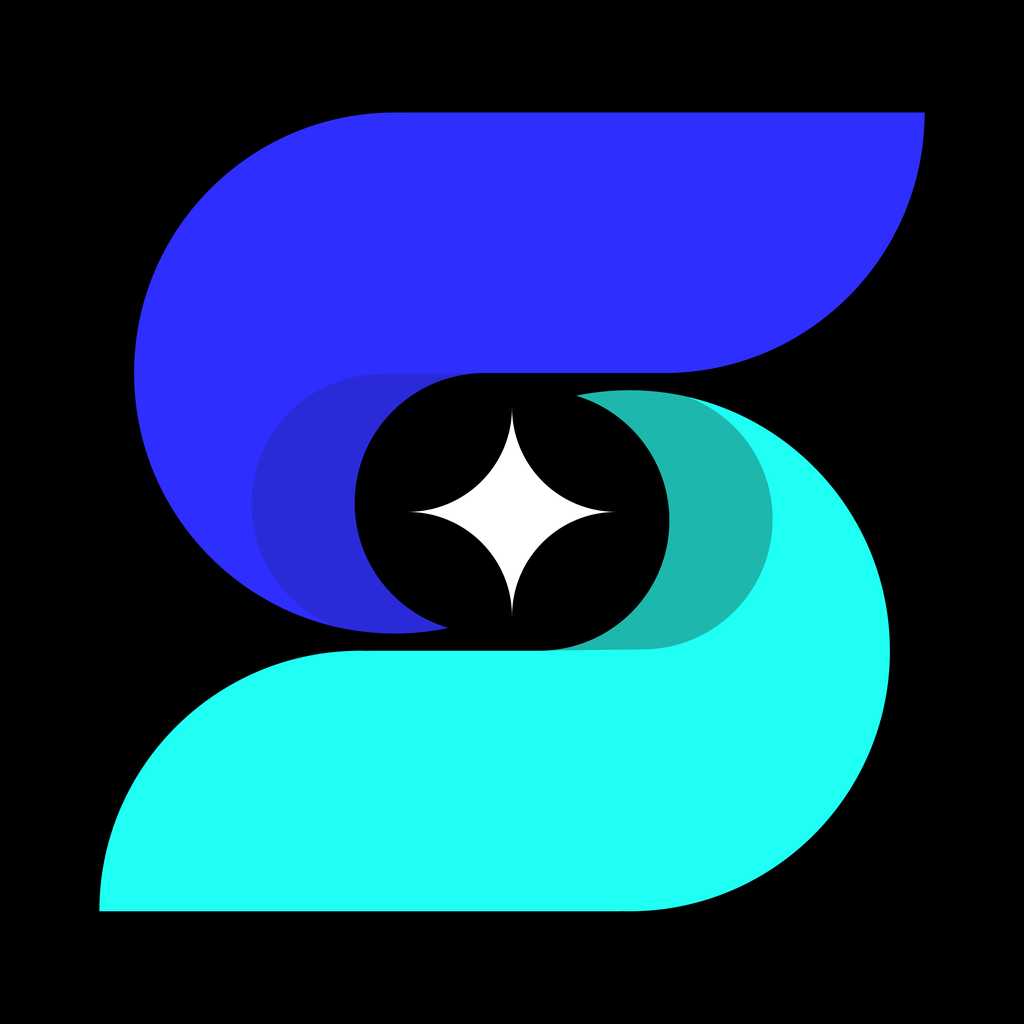
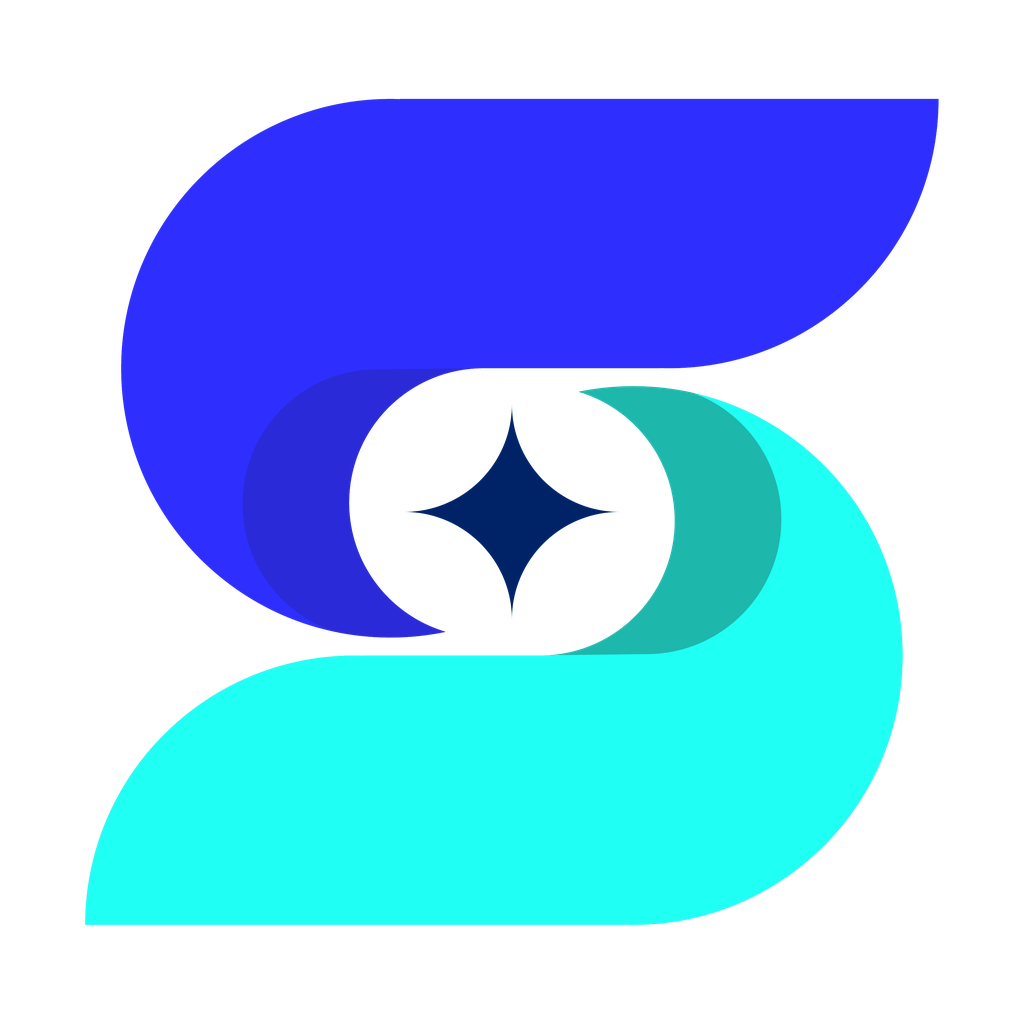
release: 0.2.11 (build 32)

diff --git a/Apps/Mac/Sources/App/SmartBalanceApp.swift b/Apps/Mac/Sources/App/SmartBalanceApp.swift
@@ -12,13 +12,13 @@ struct SmartBalanceApp: App {
                     PinnedBalanceWindowController.shared.bind(model: model)
                 }
         } label: {
-            // 仅图标，不占状态栏宽度
+            // 彩色浅色无背景 Logo（不用 template，避免被系统压成单色）
             Image("MenuBarIcon")
-                .renderingMode(.template)
+                .renderingMode(.original)
                 .resizable()
                 .interpolation(.high)
                 .aspectRatio(contentMode: .fit)
-                .frame(width: 16, height: 16)
+                .frame(width: 18, height: 18)
                 .help(menuBarHelp)
         }
         .menuBarExtraStyle(.window)

diff --git a/Apps/Mac/scripts/apply-branding.py b/Apps/Mac/scripts/apply-branding.py
@@ -1,5 +1,11 @@
 #!/usr/bin/env python3
-"""从 Branding/ 源文件生成 AppIcon / AppLogo / MenuBarIcon。"""
+"""从 Branding/ 源文件生成 AppIcon / AppLogo / MenuBarIcon。
+
+产品要求：
+- 安装包 / Dock / AppIcon：浅色无背景彩色 Logo
+- 状态栏：浅色无背景彩色 Logo（非模板、非深色底）
+- 界面 AppLogo：浅色无背景彩色 Logo
+"""
 from pathlib import Path
 from PIL import Image
 import shutil
@@ -10,6 +16,7 @@ APP_BRAND = ROOT / "Apps/Mac/Branding"
 ICONSET = ROOT / "Apps/Mac/Sources/App/Resources/Assets.xcassets/AppIcon.appiconset"
 MENU = ROOT / "Apps/Mac/Sources/App/Resources/Assets.xcassets/MenuBarIcon.imageset"
 APP_LOGO = ROOT / "Apps/Mac/Sources/App/Resources/Assets.xcassets/AppLogo.imageset"
+
 
 def tight_square(im: Image.Image, pad_ratio: float = 0.10) -> Image.Image:
     im = im.convert("RGBA")
@@ -23,25 +30,23 @@ def tight_square(im: Image.Image, pad_ratio: float = 0.10) -> Image.Image:
     out.paste(im, ((out.size[0] - w) // 2, (out.size[1] - h) // 2), im)
     return out
 
-def to_template(im: Image.Image, px: int) -> Image.Image:
-    im = tight_square(im, pad_ratio=0.14).resize((px * 4, px * 4), Image.Resampling.LANCZOS)
-    a = im.split()[3]
-    bw = Image.new("RGBA", im.size, (0, 0, 0, 0))
-    pxd, ad = bw.load(), a.load()
-    for y in range(im.size[1]):
-        for x in range(im.size[0]):
-            if ad[x, y] > 100:
-                pxd[x, y] = (0, 0, 0, 255)
-    return bw.resize((px, px), Image.Resampling.LANCZOS)
 
 def main() -> None:
-    dark_bg = BRAND / "logo-dark-bg.jpg"
     light_clear = BRAND / "logo-light-clear.png"
-    if not dark_bg.exists() or not light_clear.exists():
-        raise SystemExit(f"missing masters under {BRAND}")
+    if not light_clear.exists():
+        # 中文文件名回退
+        alt = BRAND / "智余logo浅色模式无背景.png"
+        if alt.exists():
+            light_clear = alt
+        else:
+            raise SystemExit(f"missing light-clear master under {BRAND}")
 
-    icon = Image.open(dark_bg).convert("RGBA").resize((1024, 1024), Image.Resampling.LANCZOS)
-    icon.save(BRAND / "app-icon-1024.png", "PNG")
+    # 浅色无背景：透明底 + 彩色 Logo
+    master = tight_square(Image.open(light_clear), pad_ratio=0.10)
+    master_1024 = master.resize((1024, 1024), Image.Resampling.LANCZOS)
+
+    # App / Dock / 安装包图标
+    master_1024.save(BRAND / "app-icon-1024.png", "PNG")
     APP_BRAND.mkdir(parents=True, exist_ok=True)
     shutil.copy2(BRAND / "app-icon-1024.png", APP_BRAND / "app-icon-1024.png")
 
@@ -52,17 +57,20 @@ def main() -> None:
         ("mac_256.png", 256), ("mac_256@2x.png", 512),
         ("mac_512.png", 512), ("mac_512@2x.png", 1024),
     ]:
-        icon.resize((px, px), Image.Resampling.LANCZOS).save(ICONSET / name, "PNG")
+        master.resize((px, px), Image.Resampling.LANCZOS).save(ICONSET / name, "PNG")
 
-    logo = tight_square(Image.open(light_clear), 0.08)
+    # 界面 AppLogo
     APP_LOGO.mkdir(parents=True, exist_ok=True)
     for name, px in [("logo_1x.png", 64), ("logo_2x.png", 128), ("logo_3x.png", 192)]:
-        logo.resize((px, px), Image.Resampling.LANCZOS).save(APP_LOGO / name, "PNG")
+        master.resize((px, px), Image.Resampling.LANCZOS).save(APP_LOGO / name, "PNG")
 
-    src = Image.open(light_clear)
-    to_template(src, 18).save(MENU / "menu_1x.png", "PNG")
-    to_template(src, 36).save(MENU / "menu_2x.png", "PNG")
-    print("branding applied → AppIcon / AppLogo / MenuBarIcon")
+    # 状态栏：彩色浅色无背景（非 template）
+    menu_src = tight_square(Image.open(light_clear), pad_ratio=0.12)
+    menu_src.resize((18, 18), Image.Resampling.LANCZOS).save(MENU / "menu_1x.png", "PNG")
+    menu_src.resize((36, 36), Image.Resampling.LANCZOS).save(MENU / "menu_2x.png", "PNG")
+
+    print("branding applied (light-clear color): AppIcon / AppLogo / MenuBarIcon")
+
 
 if __name__ == "__main__":
     main()

diff --git a/Branding/README.md b/Branding/README.md
@@ -4,12 +4,12 @@
 
 | 文件 | 用途 |
 |------|------|
-| `logo-light-clear.png` / `智余logo浅色模式无背景.png` | 界面彩色 Logo（首页/关于） |
-| `logo-dark-clear.png` / `智余logo深色模式无背景.png` | 深色底上的彩色 Logo |
-| `logo-dark-bg.jpg` / `智余logo深色模式有背景.jpg` | **App / Dock 图标**母版 |
-| `logo-light-bg.jpg` / `智余logo浅色模式有背景.jpg` | 浅底展示 |
+| `logo-light-clear.png` / `智余logo浅色模式无背景.png` | **主用**：App/Dock/安装包、状态栏、界面 Logo |
+| `logo-dark-clear.png` / `智余logo深色模式无背景.png` | 备用（深色场景） |
+| `logo-dark-bg.jpg` / `智余logo深色模式有背景.jpg` | 备用（有背景展示） |
+| `logo-light-bg.jpg` / `智余logo浅色模式有背景.jpg` | 备用（浅底展示） |
 | `logo-source.ai` / `智余logo.ai` | 矢量源文件 |
-| `app-icon-1024.png` | 从 dark-bg 导出的 1024 图标 |
+| `app-icon-1024.png` | 由浅色无背景导出的 1024 图标 |
 
 重新生成资源：
 

diff --git a/releases/Mac/v0.2.11/RELEASE_NOTES.md b/releases/Mac/v0.2.11/RELEASE_NOTES.md
@@ -1,0 +1,24 @@
+# 智余 0.2.11 (build 32)
+
+- **日期**：2026-08-07
+- **标签**：`v0.2.11`
+
+## 安装包
+
+| 文件 | 怎么用 |
+|------|--------|
+| **智余-0.2.11.dmg** / **SmartBalance-0.2.11.dmg** | 打开后把 App **拖到 Applications**（推荐） |
+| **智余-0.2.11.pkg** / **SmartBalance-0.2.11.pkg** | 双击，按安装向导装到「应用程序」 |
+
+## 首次打开
+
+若提示无法验证开发者：Control + 点击 → 打开。  
+临时签名（ad-hoc）。其他 Mac 首次：右键 → 打开，或 系统设置 → 隐私与安全性 → 仍要打开。
+
+## 系统
+
+macOS 15.0 或更高。
+
+## 更新
+
+设置 → 软件更新 → 检查更新（GitHub Releases，优先下载 dmg/pkg）。

diff --git a/CHANGELOG.md b/CHANGELOG.md
@@ -1,5 +1,11 @@
 # Changelog
 
+## 0.2.11 — 2026-08-07
+
+- App/安装包图标改为浅色无背景彩色 Logo（不再用深色有背景）
+- 状态栏改为彩色浅色无背景 Logo（关闭 template 单色）
+
+
 ## 0.2.10 — 2026-08-07
 
 - 品牌 Logo 完整入库 Branding/（中英文名源文件 + .ai）

diff --git a/README.md b/README.md
@@ -6,7 +6,7 @@ macOS 菜单栏应用：查询各平台 **API / Token 余额**，偏低时 **Mac
 |--|--|
 | 平台 | macOS 15+ |
 | 形态 | 菜单栏（无 Dock） |
-| 版本 | 0.2.10 |
+| 版本 | 0.2.11 |
 
 ---
 
